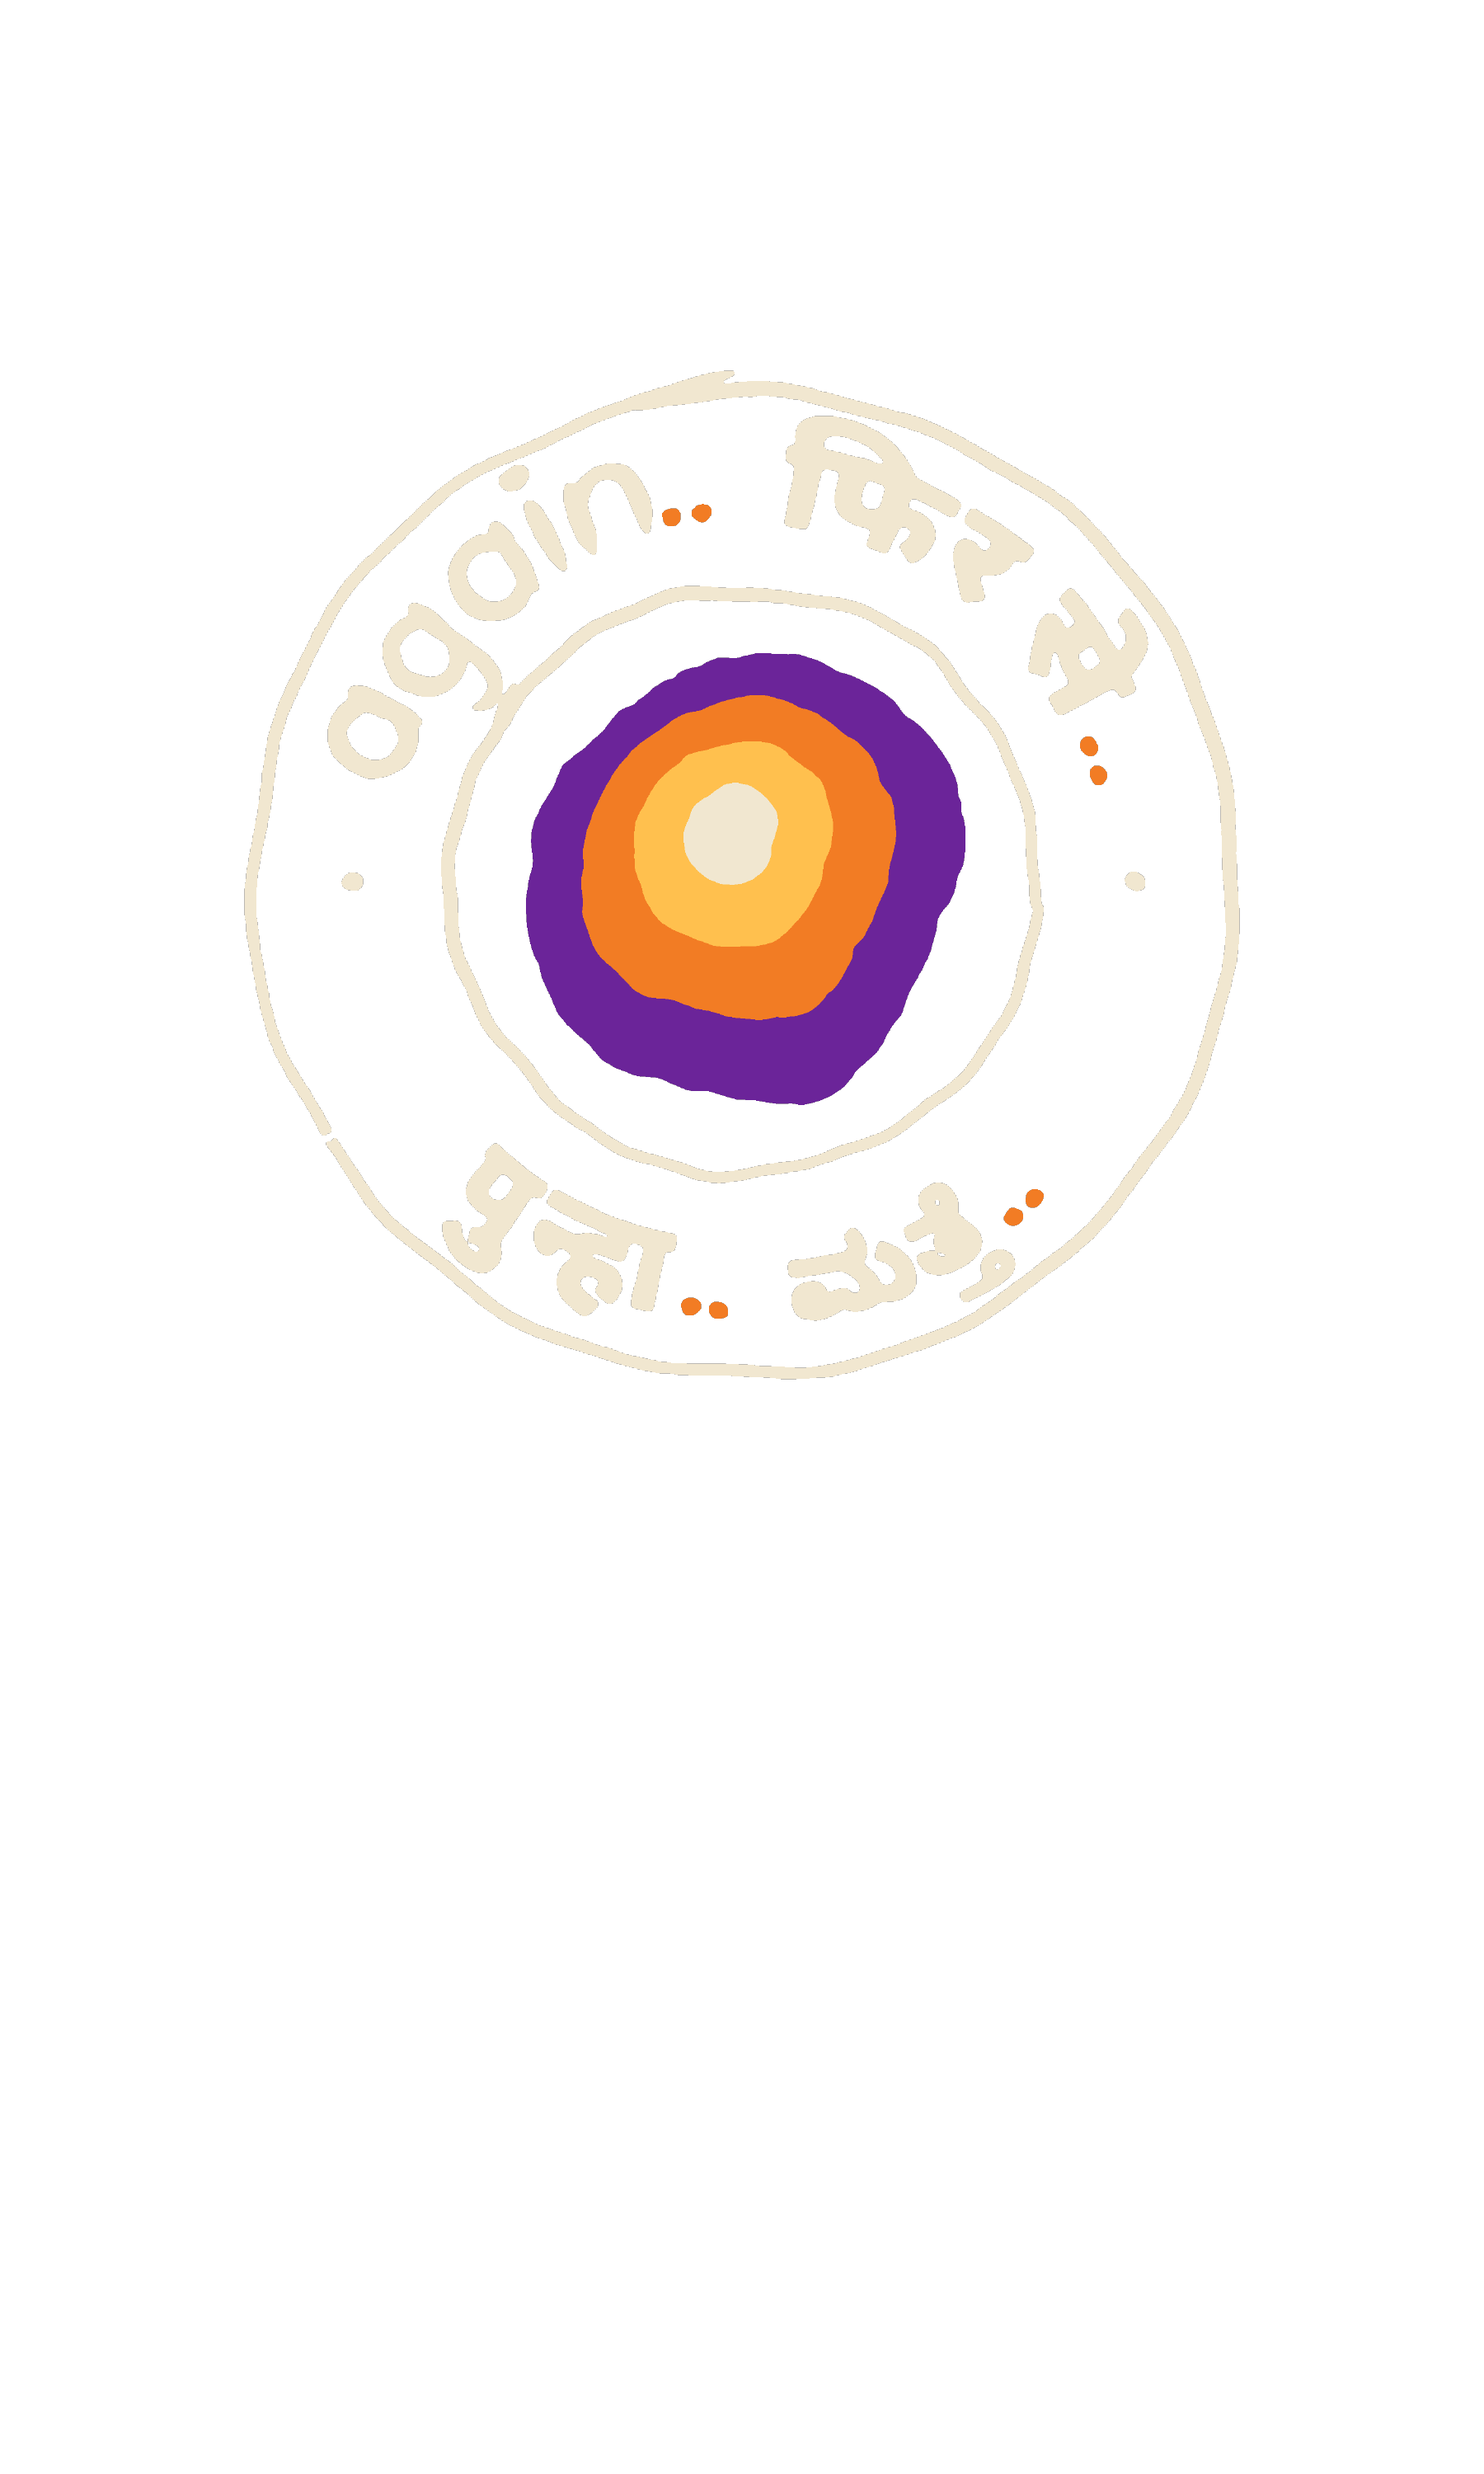
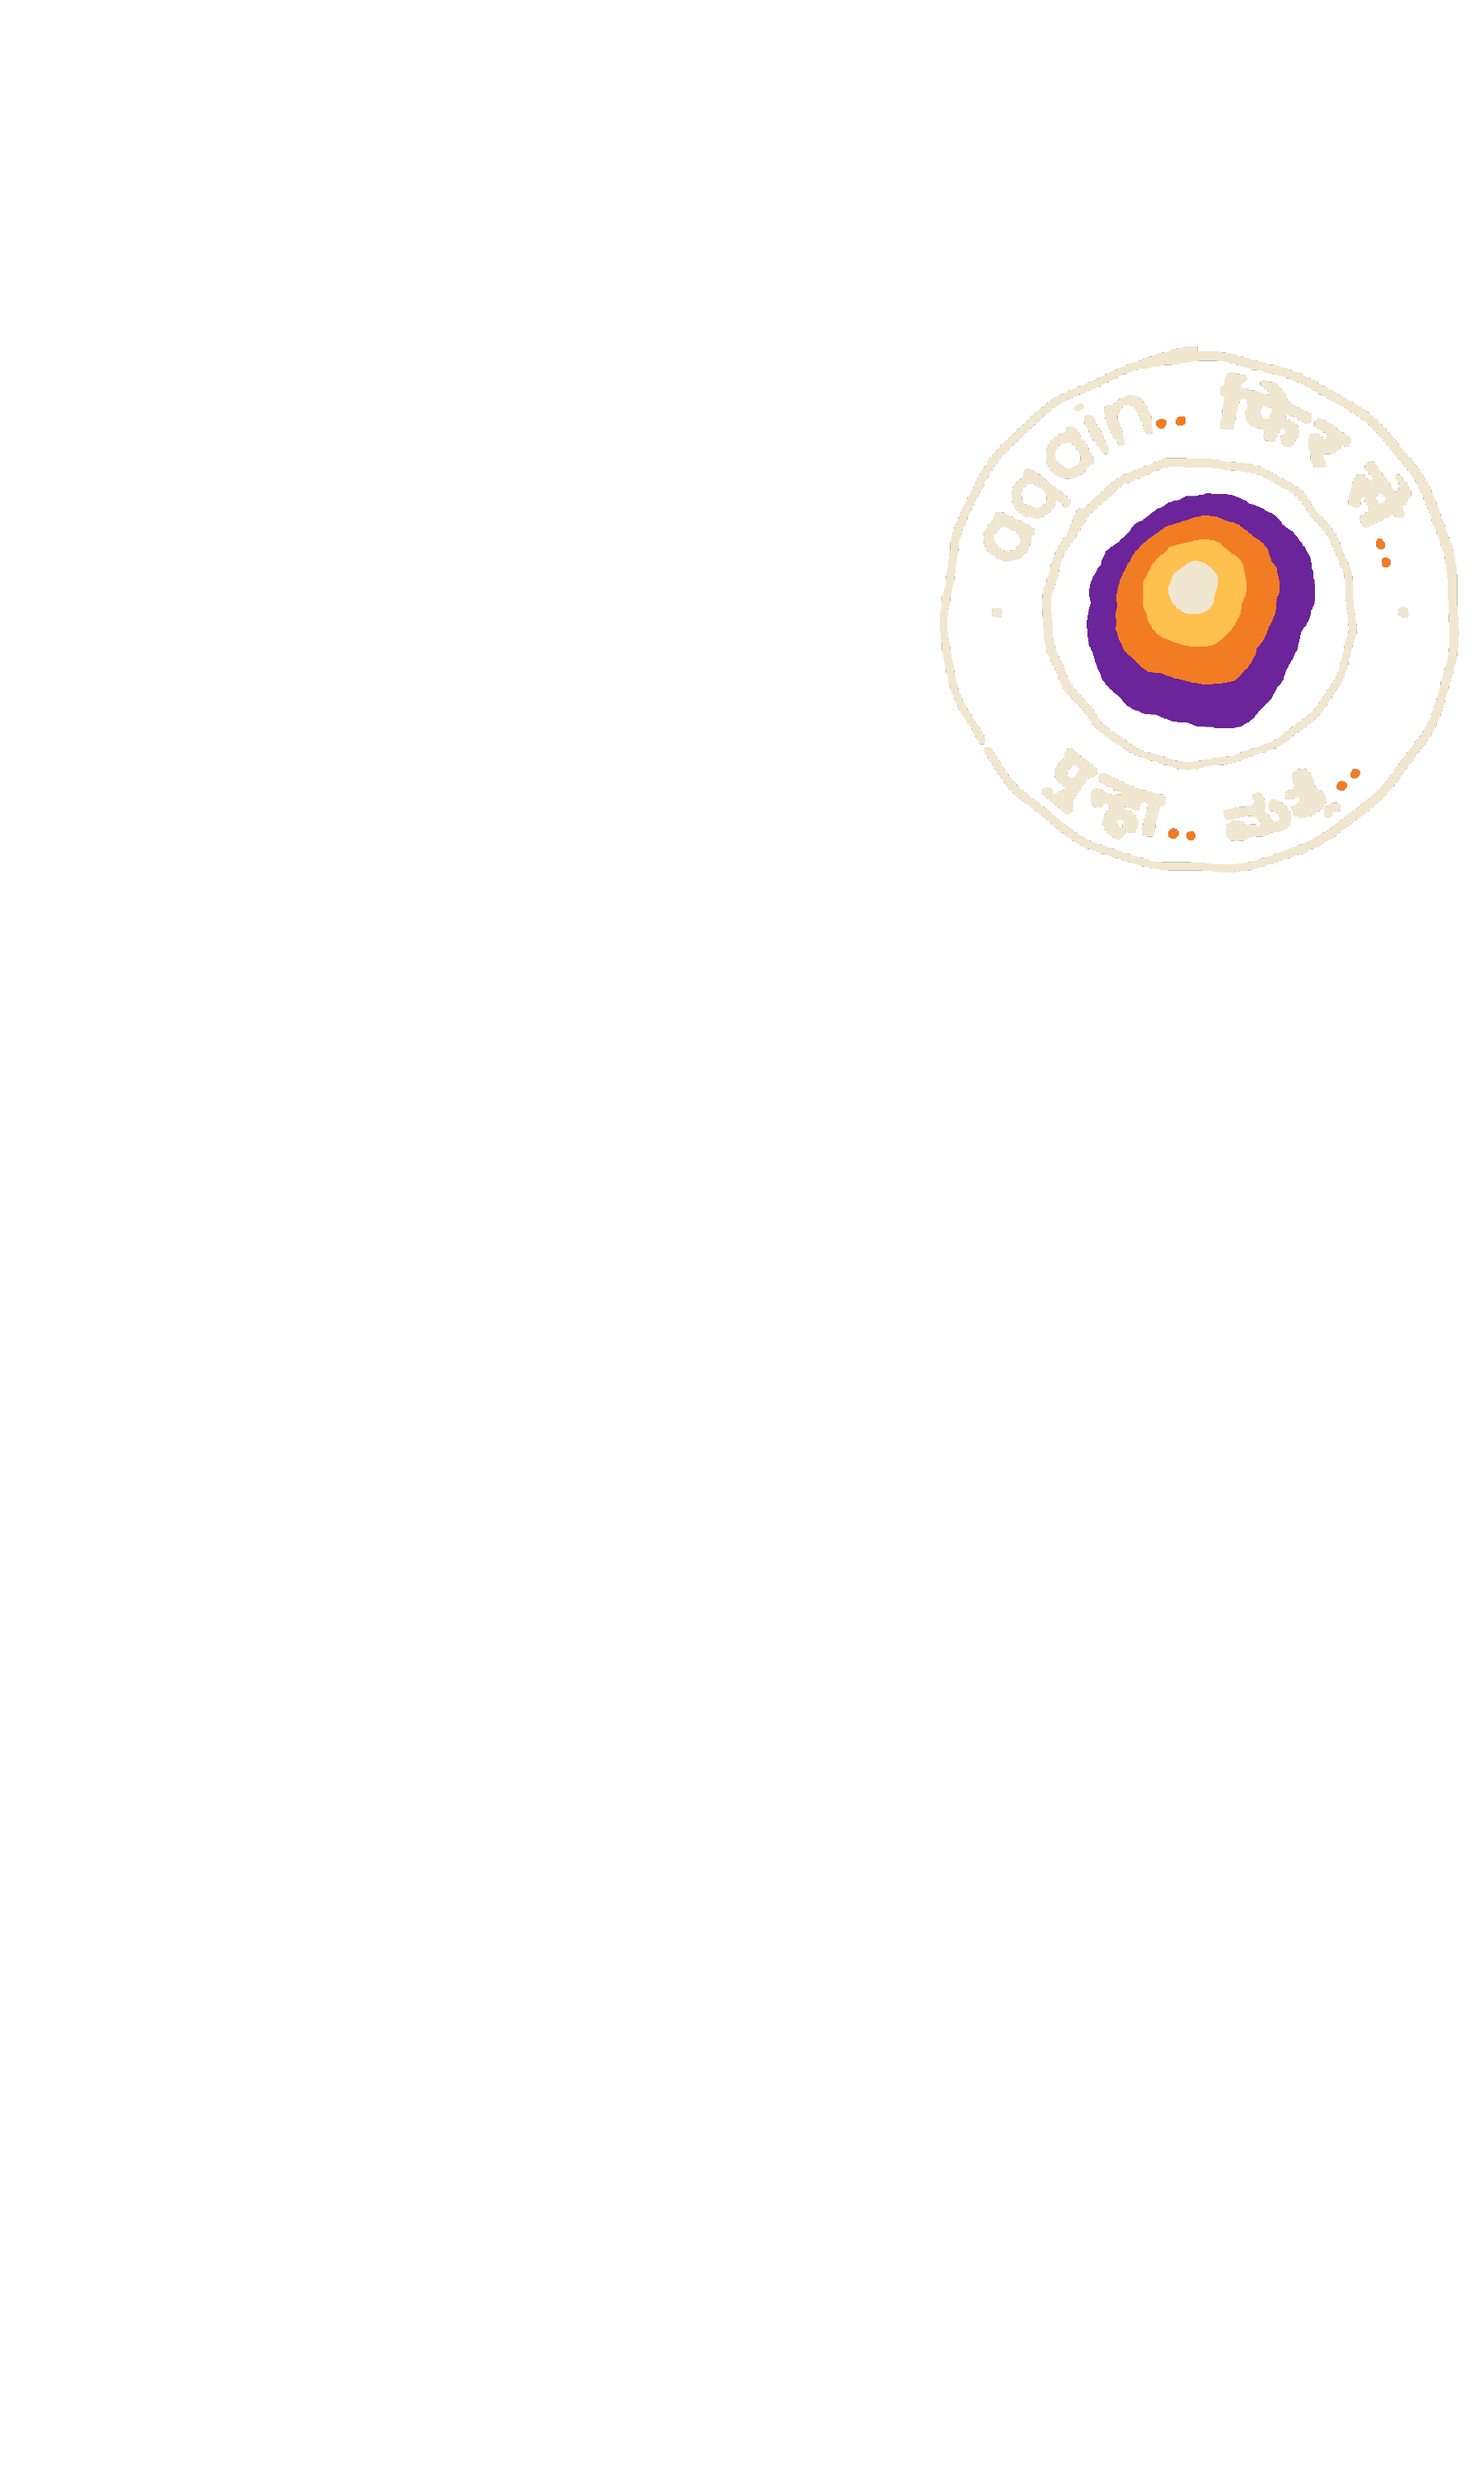
i am a party: the seal moves to the left chest, in exactly the lettering's place and size (10.5 cm wide)
An art front's width is now its ink's (the file's clear margin is cropped), so its edges land where the lettering's do.

diff --git a/pipeline/fronts.py b/pipeline/fronts.py
@@ -10,10 +10,8 @@ AREA_PX_CM = 60                                   # the viewer's front texture: 
 LETTERING = (None, 4 + 10.5 / 2, 15.0, 10.5)     # inner edge 4 cm off the centre front, top 15 cm under the shoulder
 FRONTS = {
     "a": LETTERING, "b": LETTERING, "c": LETTERING, "d": LETTERING,
-    # i am a party: the seal, 21.1 cm across on the centre chest. The front neck drops 9.5 cm and its rib is 2 cm, so
-    # the collar seam is 11.5 cm under the shoulder point at the centre; the seal starts 3.5 cm under it and centres
-    # about on the chest line
-    "e": ("art/fronts/e/05-the-seal/art.png", 0.0, 15.0, 21.1),
+    # i am a party: the seal, in exactly the lettering's place and size on the other shirts (left chest, 10.5 cm wide)
+    "e": ("art/fronts/e/06-the-seal-left-chest/art.png",) + LETTERING[1:],
     # actual life: the wristband (picks no. 09), turned to hang down the wearer's left front, clasp up, its tail
     # leaning 5 deg toward the centre front. 40 cm tall, from 17 to 57 cm under the shoulder point, centred 10 cm off
     # the centre front: inside the front print box (35.6 x 45.7 cm from the collar seam, 11.5 cm under the shoulder

diff --git a/pipeline/texture.py b/pipeline/texture.py
@@ -98,5 +98,6 @@ if __name__ == "__main__":
     from fronts import FRONTS
     f_file, f_cx, f_top, f_w = FRONTS[design.lower()]
     f_img = Image.open(f"{OV}/ov-front-{tee}.png" if f_file is None else os.path.join(HERE, f_file)).convert("RGBA")
+    if f_file is not None: f_img = f_img.crop(f_img.getchannel("A").getbbox())   # an art file's width is its ink's
     place(f_img, f_cx, NECK_Y - f_top, f_w, 0)
     atlas.convert("RGB").save(f"atlas-{design}-{tee}.png"); mask.save(f"inkmask-{design}-{tee}.png"); print("ok", atlas.size)

diff --git a/pipeline/printtex.py b/pipeline/printtex.py
@@ -107,7 +107,7 @@ for d, tee in pairs:
     f_file, cx, top, w_cm = FRONTS[d]
     if f_file is None: art = lettering[tee]
     else:
-        im = Image.open(f_file).convert("RGBA")
+        im = Image.open(f_file).convert("RGBA"); im = im.crop(im.getchannel("A").getbbox())   # its width is the ink's
         art = resize_rgba(im, (int(round(w_cm * K)), int(round(im.height * w_cm * K / im.width))))
     h, w = art.shape[:2]
     x, y = int(round((cx - AREA["x0"]) * K - w / 2)), int(round((top - AREA["top"]) * K))

diff --git a/CHANGELOG.md b/CHANGELOG.md
@@ -10,7 +10,7 @@ The shop stays 0.x until launch, which is 1.0.0. Every release is a git tag `vX.
 ## Unreleased
 ### New
 - 05 actual life, a black tee for Bengaluru: the walk home at 1:42 am in light rain, under the rain trees, the street shining wet, the last train in at Madavara and the stage still lit at the end of the road. On the back, notes in hand and bengaluru . 1:42 am . 22°c along the bottom; on the front, the festival wristband hanging from the left chest, clasp up, again.. again.. again.. woven down it
-- i am a party has its own front: a hand-drawn seal on the centre chest, 21 cm across, with again.. फिर से.. पुन्हा.. ಮತ್ತೆ.. round two uneven rings and a warm body seen through a heat camera in the middle, painted in violet, orange and pale yellow round a cream core. The other three shirts keep again.. in four scripts on the left chest.
+- i am a party has its own front: a small hand-drawn seal on the left chest, in the same place and at the same size as again.. on the other shirts, with again.. फिर से.. पुन्हा.. ಮತ್ತೆ.. between two uneven rings and a warm body seen through a heat camera in the middle, painted in violet, orange and pale yellow round a cream core.
 - Worn by him or her: under the 3D view, pick who wears the tee. Two new people, both Indian, lean and athletic: him at 175 cm in M, with a textured quiff, faded sides and a short beard drawn hair by hair; her at 163 cm in S, with an open bob parted in the middle and a soft, natural hairline. Both breathe and shift their weight as they stand, and the tee is simulated on each of their own bodies.
 - On the table: the tee laid flat on a worn wooden table, lit by a window on the right whose frame throws a soft shadow across the boards. Air comes in through it, never quite straight: it dies away, breezes, builds slowly or bursts. Now and then a dry leaf (rarely a thread or a hair) drifts down or skates in; it has weight, holding until a puff beats its grip, then breaking loose, skidding and stopping again. Leaves glow a little with the light behind them. The cotton breathes with the air.
 
